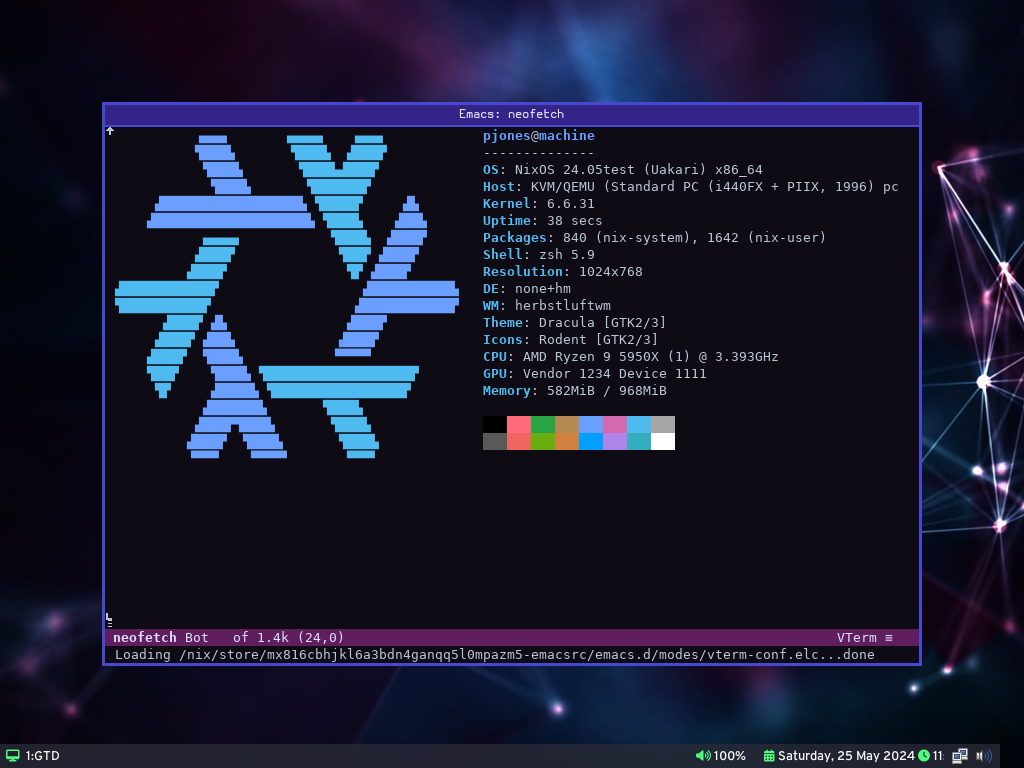
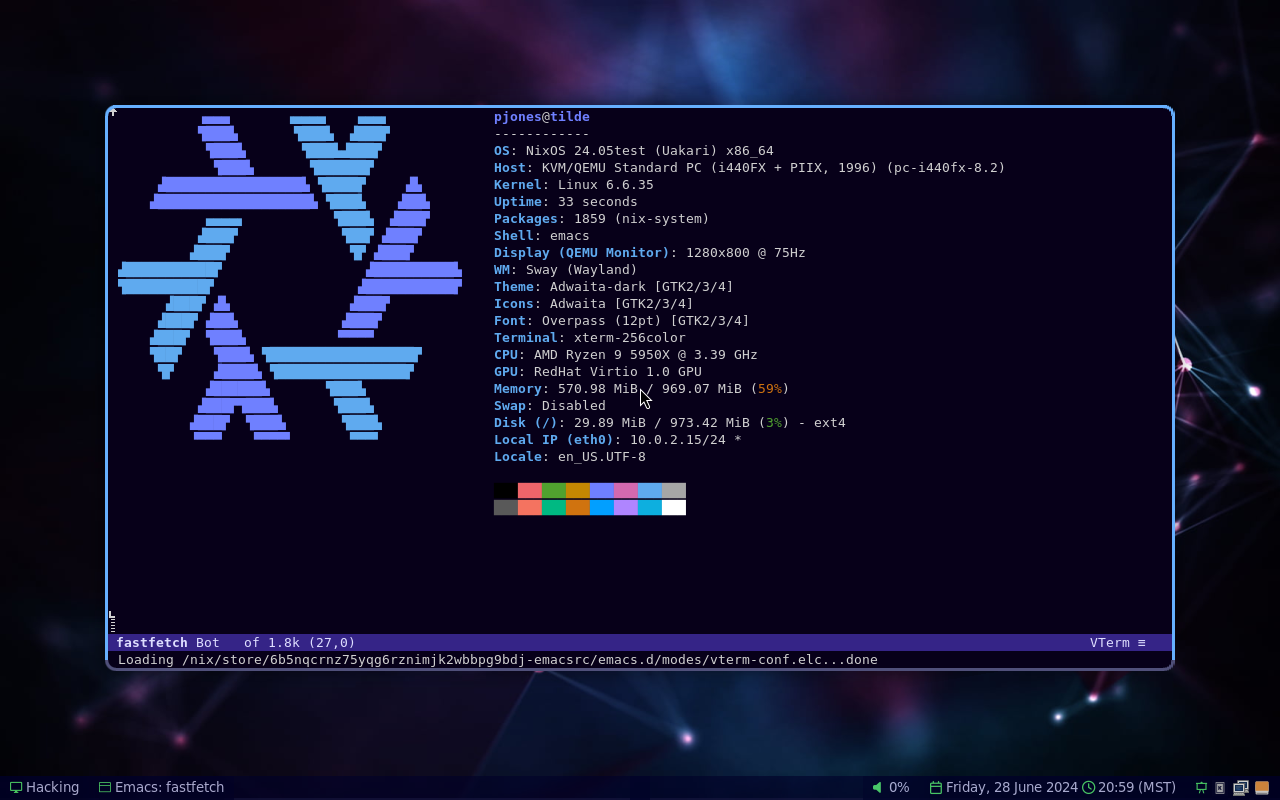
superkey: Integrate superkey with the demo VM and screenshot tool

diff --git a/README.md b/README.md
@@ -10,14 +10,33 @@ Thanks to [Nix][], [nixpkgs][], and [home-manager][] this repository
 can reproduce a working desktop environment exactly as configured
 without having to tweak files by hand or in GUI settings tools.
 
+The screenshot above was taken automatically by a non-interactive test
+running in an ephemeral virtual machine (`nix flake check`).
+
 ## Details
 
   * Linux Distribution: [NixOS][nix]
 
-  * Terminal: Emacs w/ libvterm
+  * Terminal: [Emacs][] w/ libvterm
 
   * Monospace Font: [Hermit](https://pcaro.es/p/hermit/)
+
+  * Desktop: [SwayFX on Wayland][superkey]
+
+## Try It Out
+
+If you have [Nix][] installed and configured with flake support you
+can run my configuration in a virtual machine:
+
+```sh
+nix run github:pjones/tilde
+```
+
+Use the key binding `Super+Space` to start `rofi`.  Other key bindings
+can be found in my [Wayland configuration][superkey].
 
 [nix]: https://nixos.org/
 [nixpkgs]: https://github.com/NixOS/nixpkgs
 [home-manager]: https://github.com/rycee/home-manager
+[superkey]: https://github.com/pjones/superkey
+[emacs]: https://github.com/pjones/emacsrc
